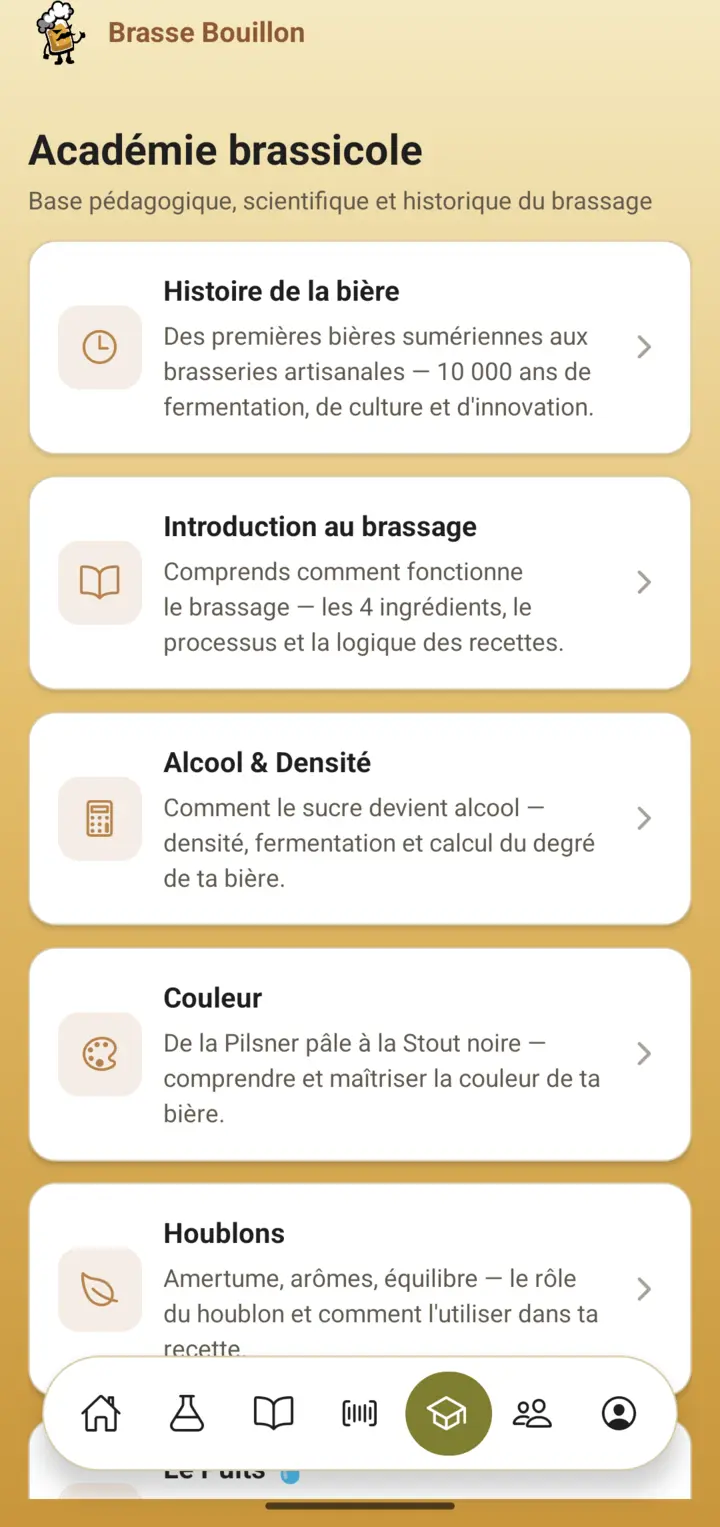
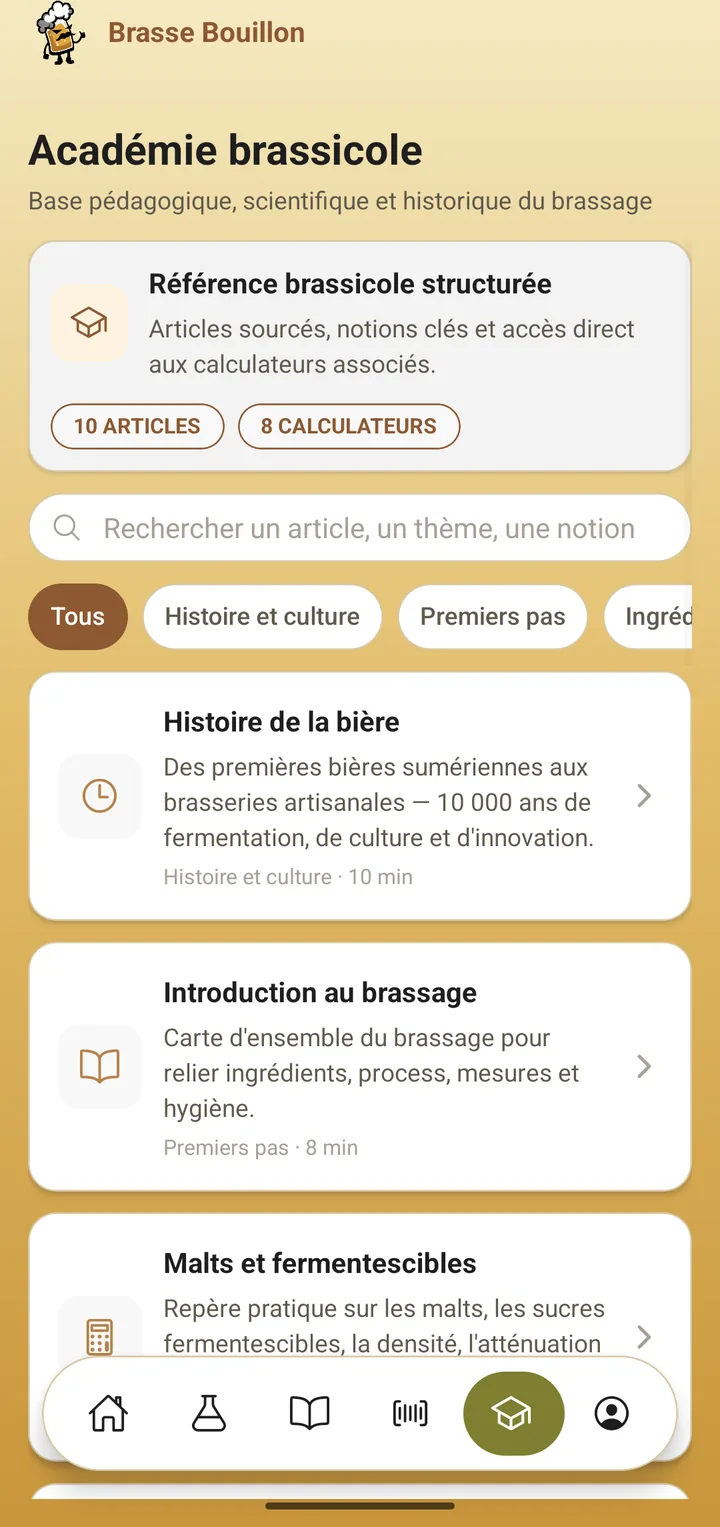
feat(website): add Académie brassicole feature section (FR) (#1388)
Dedicated section after the Scan block presenting the mobile app's
brewing Academy: sourced reference articles and the searchable
glossary. Two feature cards reusing the existing phone-frame pattern
(zero CSS/JS change): the Academy hub and a glossary term detail
(IBU) showing its bibliographic source — the pedagogical
differentiator.

Both screenshots captured from the same current app state on the
Android emulator (720x1527, same framing as the existing set) so the
two cards share an identical bottom navigation bar. The prior
feature-academie.webp (from #1122) was stale — older nav and older
hub layout — and is replaced by the current hub (synthesis card,
search, theme filters, article list).

EN twin intentionally untouched (deliberate coming-soon stub, no
feature sections yet).

Pull request: feat(website): add Académie brassicole feature section (FR)
## Summary

Adds a dedicated **Académie brassicole** section to the FR landing page, presenting the mobile app's brewing Academy the same way the site showcases its other features (phone-frame screenshot cards, scroll-reveal, design tokens).

- New section `#academieFr`, placed after the Scan section and before the FAQ — deliberately **not** a 4th pillar, so the "Trois piliers" copy in `#features` stays true (the Academy is *learning*, the pillars are *tools*).
- Two `feature-card`s reusing the existing markup pattern verbatim (zero CSS/JS change, no cache-bust needed):
  - **Academy hub** — existing asset `screenshots/feature-academie.webp`.
  - **Glossary term detail (IBU) with its bibliographic source** — new asset `screenshots/feature-academie-glossaire.webp`, captured on the Android emulator at the same 720×1527 framing as the rest of the set. This is the proof of the app's sourced-pedagogy differentiator.
- Copy grounded in what actually ships in the mobile app (10 sourced reference articles, searchable 17-term glossary with citations, category filters, difficulty badges). No over-promise: no mention of progression tracking, quizzes, or chatbot (none ship).

## Context

- The site's promise is "Brasse ta première bière sans peur de rater"; the Academy embodies the app's educational vocation — the differentiator vs tool-only competitors.
[…]

diff --git a/packages/website/index.html b/packages/website/index.html
@@ -267,6 +267,28 @@
         </div>
       </section>
 
+      <section class="section-block" id="academieFr">
+        <p class="section-eyebrow">La pédagogie</p>
+        <h2 class="section-title">Comprends ce que tu <em>brasses</em></h2>
+        <p class="section-intro">Pas seulement comment, mais pourquoi. L’Académie réunit des articles sourcés et un glossaire du brassage — des ingrédients à la fermentation, du premier brassin au réglage fin.</p>
+        <div class="features-grid">
+          <article class="feature-card">
+            <div class="feature-screenshot">
+              <img src="screenshots/feature-academie.webp?v=20260710" alt="Capture de l’écran d’accueil de l’Académie brassicole : carte de synthèse (10 articles, 8 calculateurs), barre de recherche, filtres par thème et liste d’articles (histoire de la bière, introduction au brassage, malts et fermentescibles)" loading="lazy" width="280" height="560">
+            </div>
+            <h3>Des repères, pas du jargon</h3>
+            <p>Ingrédients, couleur, alcool, fermentation&nbsp;: des articles clairs, classés par thème, pour apprendre à ton rythme.</p>
+          </article>
+          <article class="feature-card">
+            <div class="feature-screenshot">
+              <img src="screenshots/feature-academie-glossaire.webp?v=20260710" alt="Capture de l’écran d’un terme du glossaire, l’IBU, avec sa définition détaillée et sa source bibliographique" loading="lazy" width="280" height="560">
+            </div>
+            <h3>Un glossaire sourcé</h3>
+            <p>IBU, densité, atténuation… chaque terme défini simplement, sources à l’appui — livres et standards du brassage.</p>
+          </article>
+        </div>
+      </section>
+
       <section class="section-block" id="faqSection">
         <p class="section-eyebrow">Questions fréquentes</p>
         <h2 class="section-title" id="faq">Les <em>doutes</em> avant de se lancer</h2>